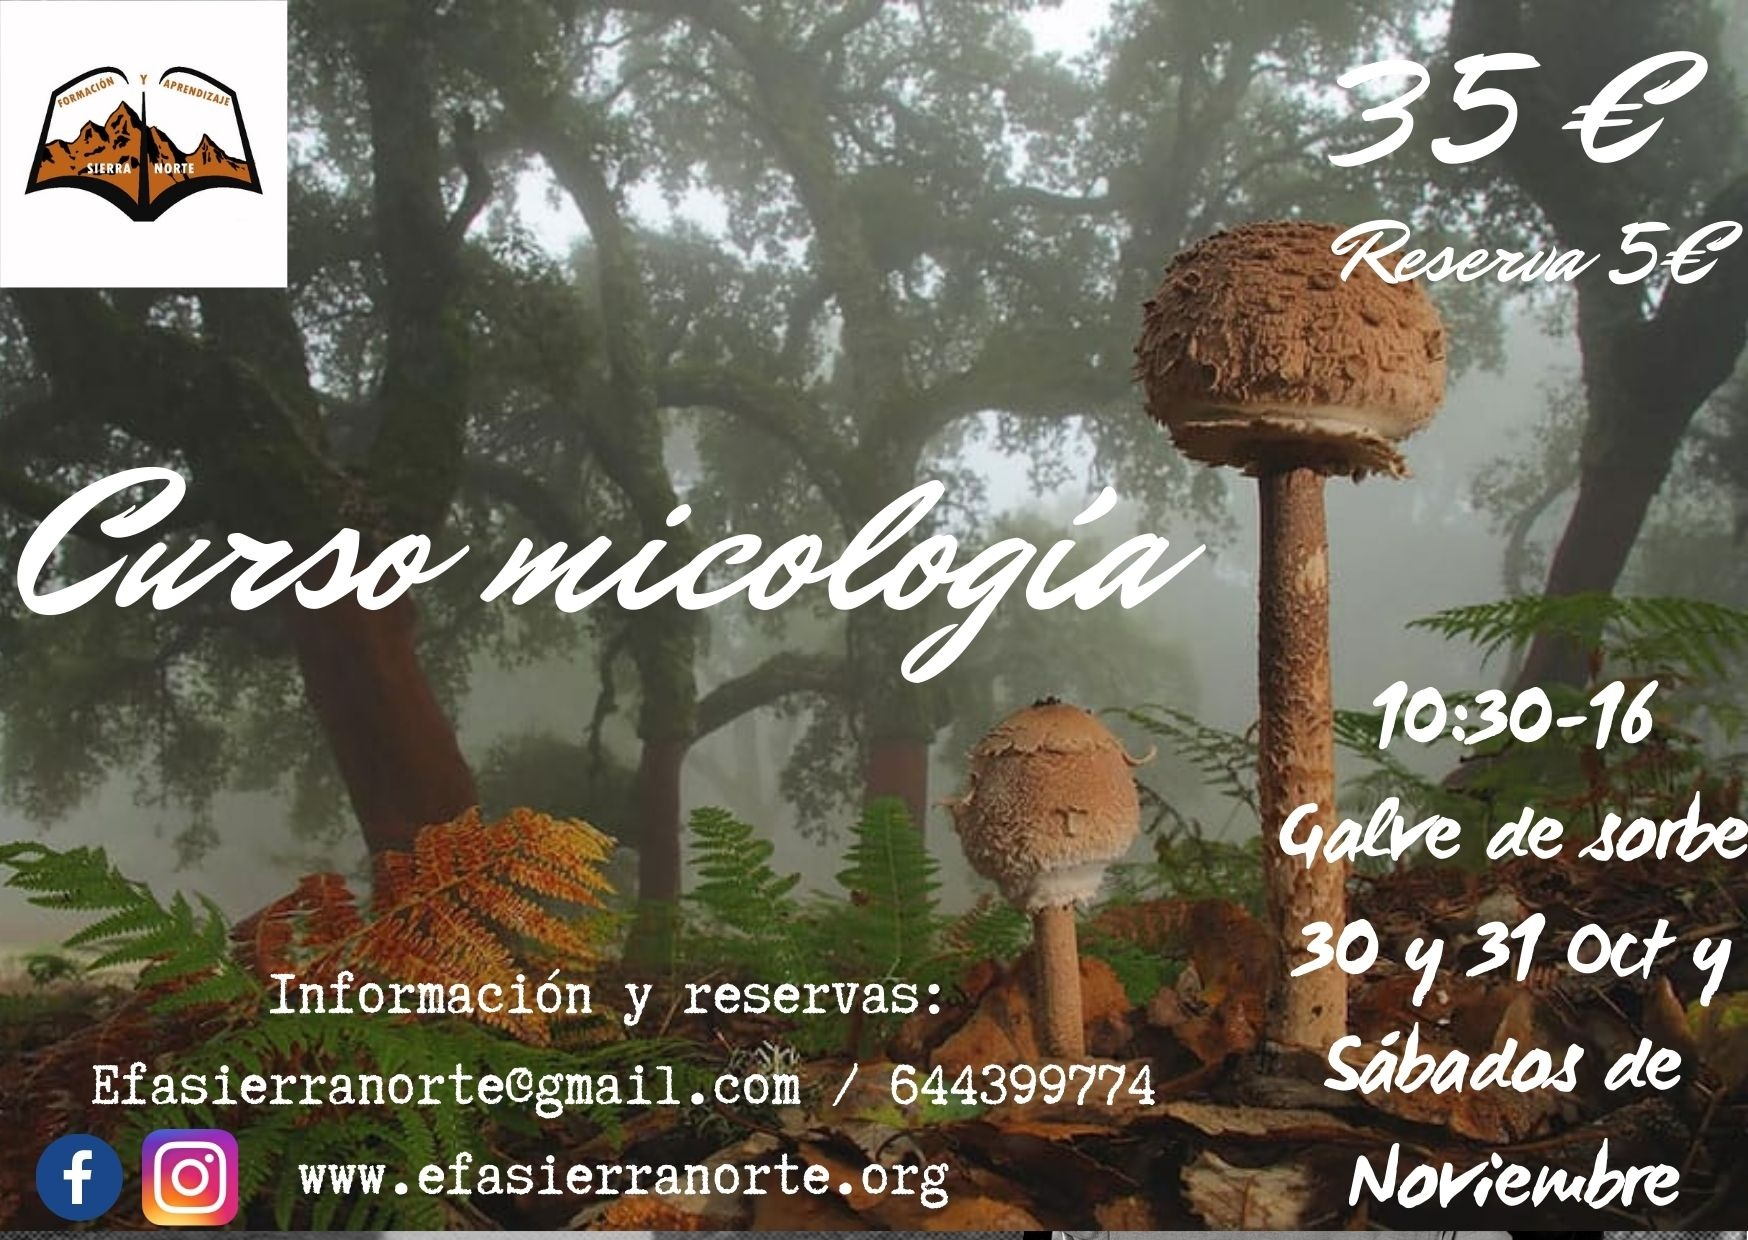
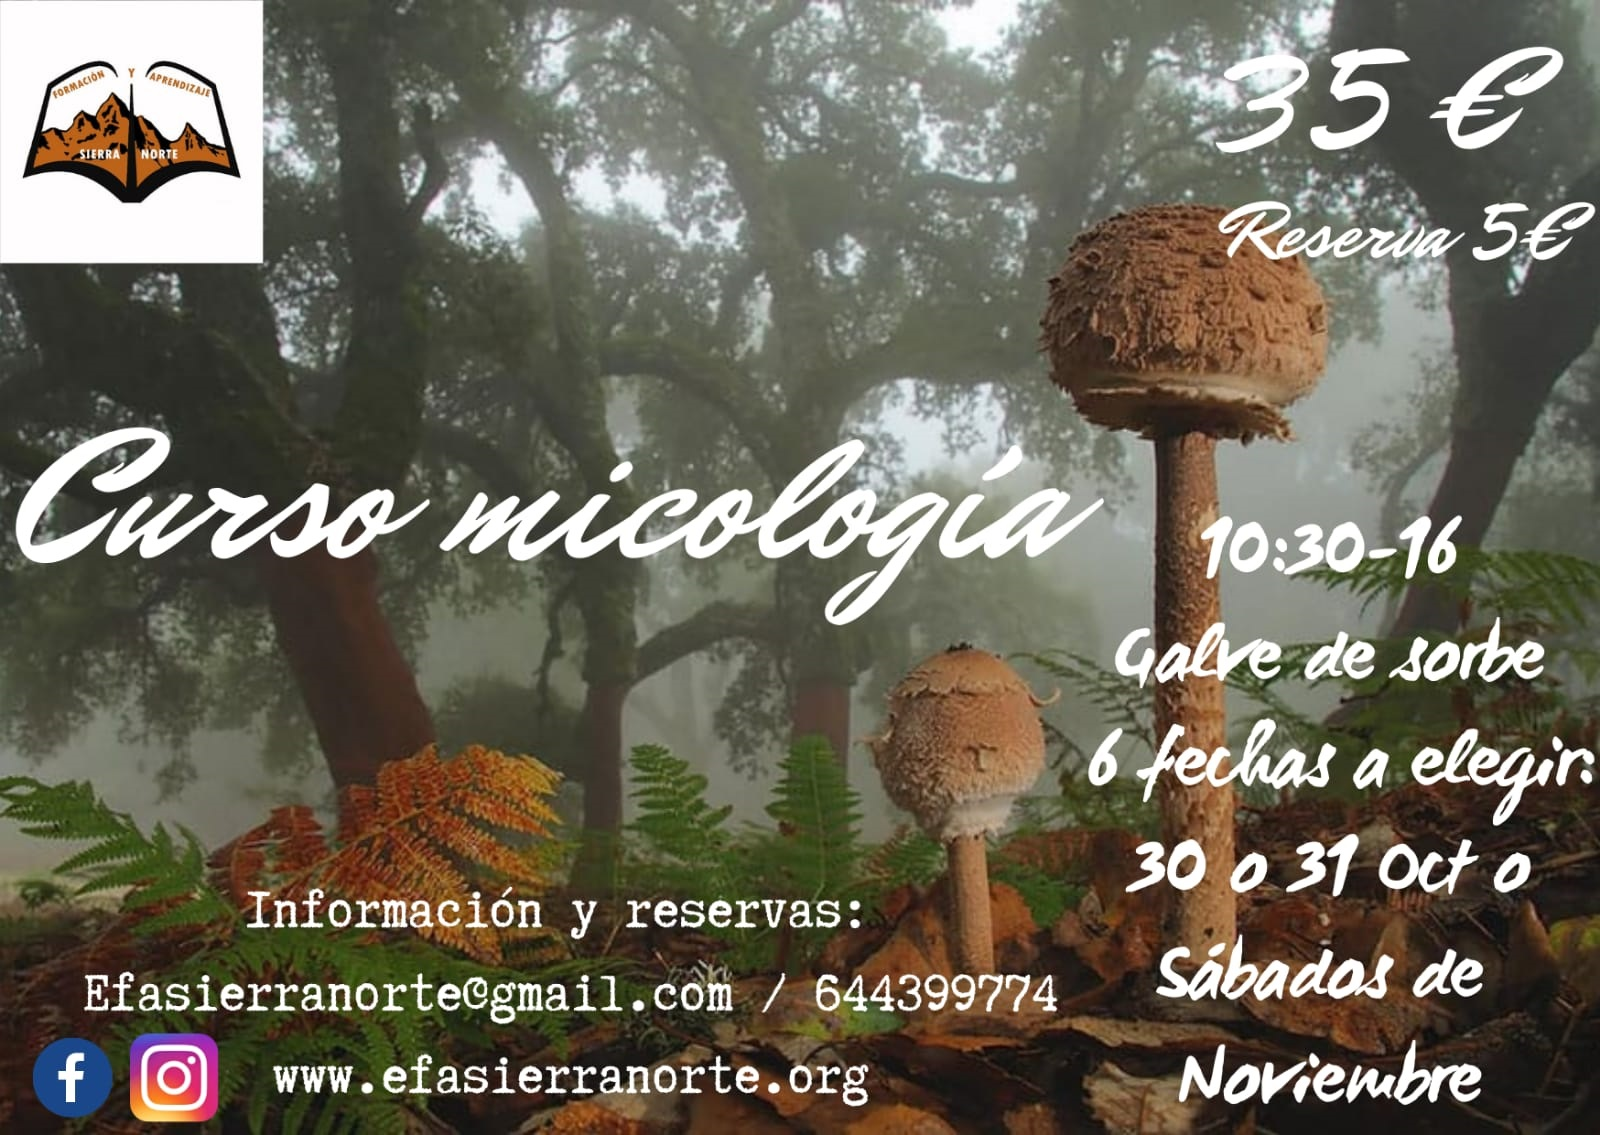
cambio imagen micologia

diff --git a/auto_inimicologia.html b/auto_inimicologia.html
@@ -108,9 +108,9 @@
 								</br>Aprenderemos a como diferenciarlas, como encontrarlas y más importante aún, como no confundirlas con las venenosas.
 								</br>Para ello no sólo nos centraremos en las mismas setas sino en el hábitat en el que se encuentran, los árboles y arbustos a los que se asocian.
 								</br>
-								</br>Fechas:
-								</br>30 y 31 Octubre
-								</br>Todos los sábados de Noviembre (6, 13, 20 y 27)
+								</br>Cursos de un día a elegir entre las siguientes fechas:
+								</br>30 o 31 Octubre
+								</br>Sábados de Noviembre (6, 13, 20 y 27)
 								</br>
 								</br>Horario: 10.30 h a 16:00 aprox.
 								</br>
